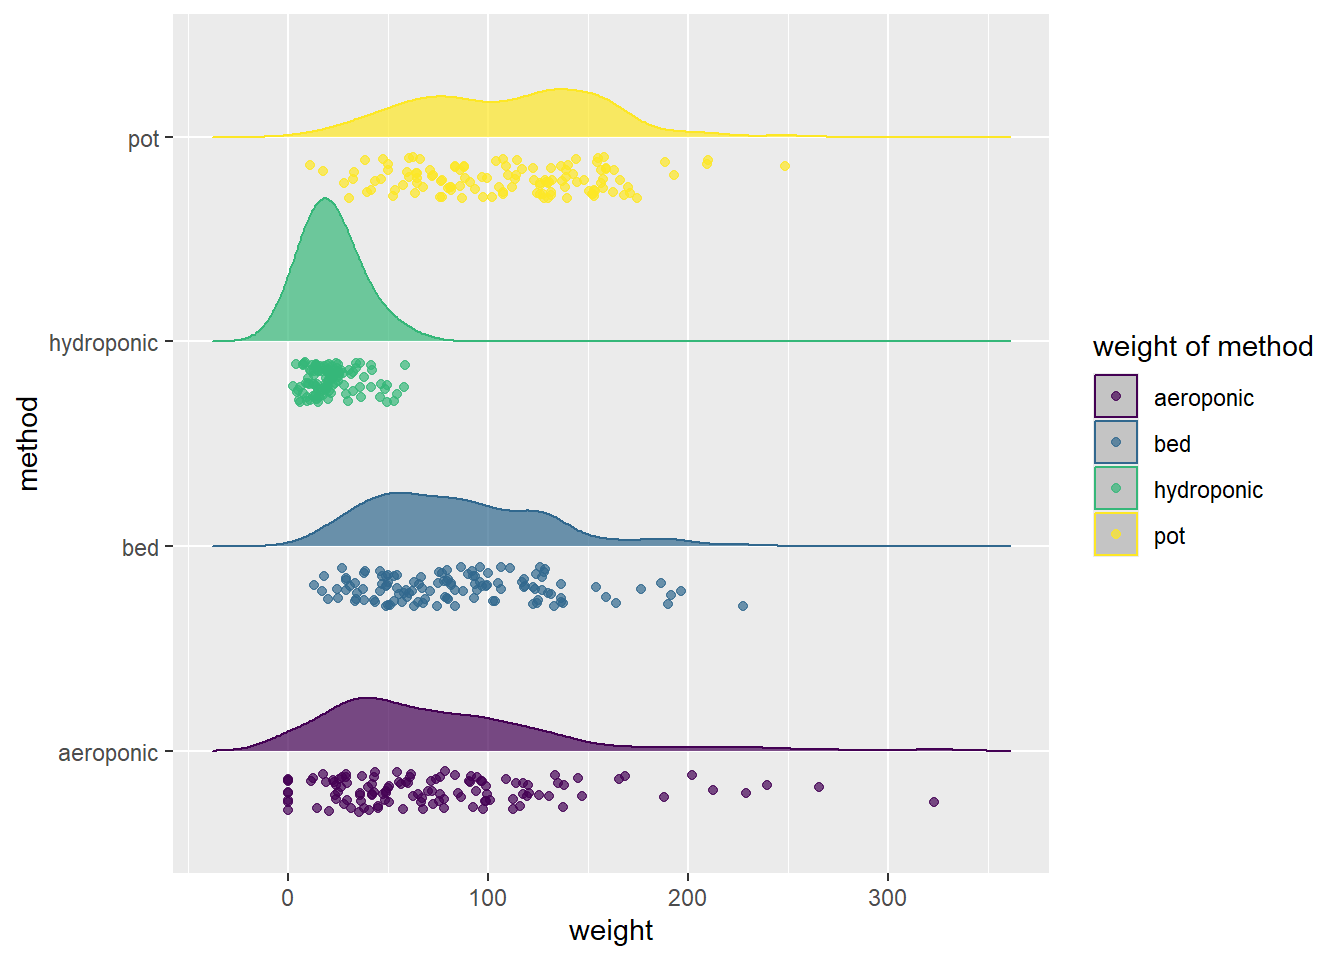
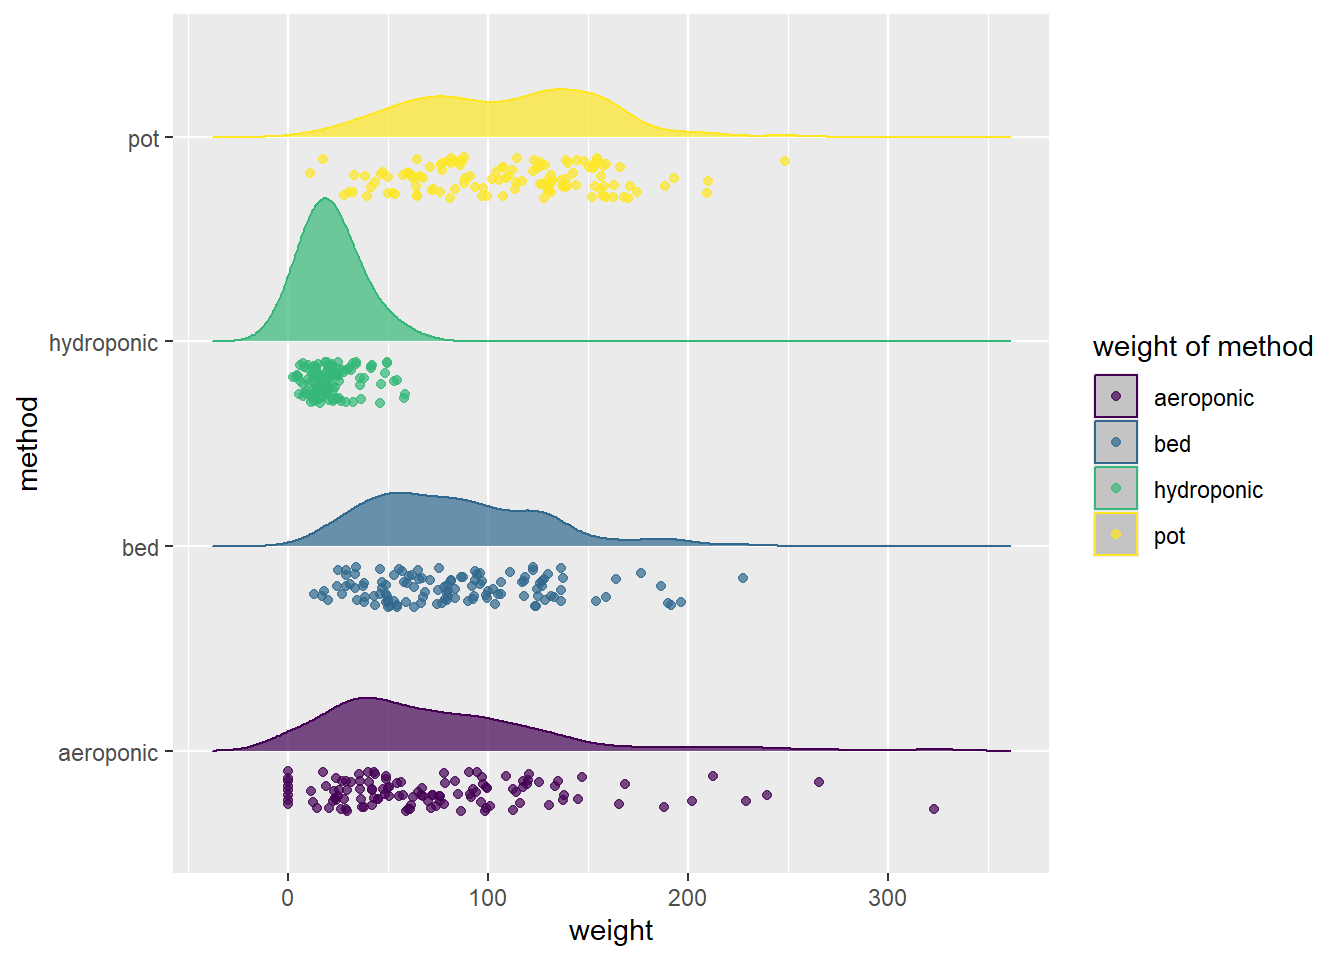
Publish site to docs/

diff --git a/docs/Themen/03/03_Graph.html b/docs/Themen/03/03_Graph.html
@@ -187,9 +187,9 @@ pre > code.sourceCode > span > a:first-child::before { text-decoration: underlin
   <li><a href="#transformation-der-achsenabstände" id="toc-transformation-der-achsenabstände" class="nav-link" data-scroll-target="#transformation-der-achsenabstände">Transformation der Achsenabstände</a></li>
   <li><a href="#theme" id="toc-theme" class="nav-link" data-scroll-target="#theme">Theme</a>
   <ul class="collapse">
-  <li><a href="#white-background---weißer-hintergrund" id="toc-white-background---weißer-hintergrund" class="nav-link" data-scroll-target="#white-background---weißer-hintergrund">white background - weißer Hintergrund</a></li>
-  <li><a href="#classic" id="toc-classic" class="nav-link" data-scroll-target="#classic">classic</a></li>
-  <li><a href="#pubr" id="toc-pubr" class="nav-link" data-scroll-target="#pubr">pubr</a></li>
+  <li><a href="#theme_bw" id="toc-theme_bw" class="nav-link" data-scroll-target="#theme_bw">theme_bw</a></li>
+  <li><a href="#theme_classic" id="toc-theme_classic" class="nav-link" data-scroll-target="#theme_classic">theme_classic</a></li>
+  <li><a href="#theme_pubr" id="toc-theme_pubr" class="nav-link" data-scroll-target="#theme_pubr">theme_pubr</a></li>
   </ul></li>
   <li><a href="#farbwahl-für-fill-argument" id="toc-farbwahl-für-fill-argument" class="nav-link" data-scroll-target="#farbwahl-für-fill-argument">Farbwahl für fill-Argument</a>
   <ul class="collapse">
@@ -209,8 +209,8 @@ pre > code.sourceCode > span > a:first-child::before { text-decoration: underlin
   <li><a href="#mosaikplot-mit-libraryvcd" id="toc-mosaikplot-mit-libraryvcd" class="nav-link" data-scroll-target="#mosaikplot-mit-libraryvcd">Mosaikplot mit <code>library(vcd)</code></a></li>
   <li><a href="#layout" id="toc-layout" class="nav-link" data-scroll-target="#layout">Layout</a>
   <ul class="collapse">
-  <li><a href="#vier-plots-in-einer-graphik" id="toc-vier-plots-in-einer-graphik" class="nav-link" data-scroll-target="#vier-plots-in-einer-graphik">Vier Plots in einer Graphik</a></li>
-  <li><a href="#vier-plots-in-einer-graphik-mit-einer-legende-mit-libraryggpubr" id="toc-vier-plots-in-einer-graphik-mit-einer-legende-mit-libraryggpubr" class="nav-link" data-scroll-target="#vier-plots-in-einer-graphik-mit-einer-legende-mit-libraryggpubr">Vier Plots in einer Graphik mit einer Legende mit <code>library(ggpubr)</code></a></li>
+  <li><a href="#vier-plots-in-einer-grafik" id="toc-vier-plots-in-einer-grafik" class="nav-link" data-scroll-target="#vier-plots-in-einer-grafik">Vier Plots in einer Grafik</a></li>
+  <li><a href="#vier-plots-in-einer-grafik-mit-einer-legende-mit-libraryggpubr" id="toc-vier-plots-in-einer-grafik-mit-einer-legende-mit-libraryggpubr" class="nav-link" data-scroll-target="#vier-plots-in-einer-grafik-mit-einer-legende-mit-libraryggpubr">Vier Plots in einer Grafik mit einer Legende mit <code>library(ggpubr)</code></a></li>
   <li><a href="#beschriftung-innerhalb-facet_grid-und-facet_wrap" id="toc-beschriftung-innerhalb-facet_grid-und-facet_wrap" class="nav-link" data-scroll-target="#beschriftung-innerhalb-facet_grid-und-facet_wrap">Beschriftung innerhalb <code>facet_grid()</code> und <code>facet_wrap()</code></a>
   <ul class="collapse">
   <li><a href="#labeller-label_both" id="toc-labeller-label_both" class="nav-link" data-scroll-target="#labeller-label_both">labeller = label_both</a></li>
@@ -244,7 +244,7 @@ pre > code.sourceCode > span > a:first-child::before { text-decoration: underlin
 
 </header>
 
-<p>Bevor Daten statistisch analysiert werden, sollten sie grafisch dargestellt werden, um mögliche Fehler, Ausreißer oder Muster zu erkennen. Darüber hinaus ist die grafische Darstellung der Daten für die Präsentation und Interpretation statistischer Modelle unerlässlich.</p>
+<p>Bevor Daten statistisch analysiert werden, sollten sie grafisch dargestellt werden, um mögliche Fehler, Ausreißer oder Muster zu erkennen. Darüber hinaus ist die grafische Darstellung der Daten für die Präsentation und Interpretation statistischer Modelle unerlässlich. Wir nutzen hierfür den Datensatz <a href="https://github.com/DoreenGabriel/Kurs/blob/main/Themen/03/potato.xlsx" target="_blank">potato.xlsx</a>, wie schon in der vorherigen Kapiteln.</p>
 <div class="cell">
 <div class="sourceCode cell-code" id="cb1"><pre class="sourceCode r code-with-copy"><code class="sourceCode r"><span id="cb1-1"><a href="#cb1-1" aria-hidden="true" tabindex="-1"></a><span class="fu">library</span>(openxlsx)</span>
 <span id="cb1-2"><a href="#cb1-2" aria-hidden="true" tabindex="-1"></a><span class="fu">library</span>(dplyr)</span>
@@ -271,8 +271,8 @@ pre > code.sourceCode > span > a:first-child::before { text-decoration: underlin
 <section id="ggplot" class="level1">
 <h1>ggplot</h1>
 <p>Die folgenden Abbildungen werden mit der <code>library(ggplot2)</code> erstellt. Einen Schummelzettel zur <code>library(ggplot2)</code> findet ihr unter:<br>
-<a href="https://raw.githubusercontent.com/rstudio/cheatsheets/main/translations/german/data-visualization_de.pdf" target="_blank">https://raw.githubusercontent.com/rstudio/cheatsheets/main/translations/german/data-visualization_de.pdf</a></p>
-<p>Zunächst müssen wir die <code>library(ggplot2)</code> laden.</p>
+<a href="https://raw.githubusercontent.com/rstudio/cheatsheets/main/translations/german/data-visualization_de.pdf" target="_blank">https://raw.githubusercontent.com/rstudio/cheatsheets/main/translations/german/data-visualization_de.pdf</a> Und ein ganzes Buch mit Erklärungen gibt es unter (https://ggplot2-book.org/)<span target="_blank">https://ggplot2-book.org/</span></p>
+<p>Zunächst laden wir die <code>library(ggplot2)</code> ein.</p>
 <div class="cell">
 <div class="sourceCode cell-code" id="cb3"><pre class="sourceCode r code-with-copy"><code class="sourceCode r"><span id="cb3-1"><a href="#cb3-1" aria-hidden="true" tabindex="-1"></a><span class="fu">library</span>(ggplot2)</span></code><button title="Copy to Clipboard" class="code-copy-button"><i class="bi"></i></button></pre></div>
 </div>
@@ -705,10 +705,13 @@ pre > code.sourceCode > span > a:first-child::before { text-decoration: underlin
 <div class="sourceCode cell-code" id="cb53"><pre class="sourceCode r code-with-copy"><code class="sourceCode r"><span id="cb53-1"><a href="#cb53-1" aria-hidden="true" tabindex="-1"></a><span class="fu">ggplot</span>(<span class="at">data=</span>pot, <span class="fu">aes</span>(<span class="at">x=</span>weight, <span class="at">y=</span>tubers, <span class="at">color=</span>variety)) <span class="sc">+</span></span>
 <span id="cb53-2"><a href="#cb53-2" aria-hidden="true" tabindex="-1"></a>  <span class="fu">geom_point</span>()<span class="sc">+</span></span>
 <span id="cb53-3"><a href="#cb53-3" aria-hidden="true" tabindex="-1"></a>  <span class="fu">geom_smooth</span>(<span class="at">method=</span>lm)<span class="sc">+</span></span>
-<span id="cb53-4"><a href="#cb53-4" aria-hidden="true" tabindex="-1"></a>  <span class="fu">labs</span>(<span class="at">x=</span><span class="st">"Gewicht in g"</span>, <span class="at">y=</span><span class="st">"Anzahl Kartoffelknollen"</span>)<span class="sc">+</span></span>
-<span id="cb53-5"><a href="#cb53-5" aria-hidden="true" tabindex="-1"></a>  <span class="fu">coord_cartesian</span>(<span class="at">ylim=</span><span class="fu">c</span>(<span class="dv">0</span>,<span class="dv">15</span>), <span class="at">xlim =</span> <span class="fu">c</span>(<span class="dv">0</span>,<span class="dv">350</span>))<span class="sc">+</span></span>
-<span id="cb53-6"><a href="#cb53-6" aria-hidden="true" tabindex="-1"></a>  <span class="fu">facet_grid</span>(method<span class="sc">~</span>variety)<span class="sc">+</span></span>
-<span id="cb53-7"><a href="#cb53-7" aria-hidden="true" tabindex="-1"></a>  <span class="fu">theme</span>(<span class="at">legend.position=</span><span class="st">"bottom"</span>)</span></code><button title="Copy to Clipboard" class="code-copy-button"><i class="bi"></i></button></pre></div>
+<span id="cb53-4"><a href="#cb53-4" aria-hidden="true" tabindex="-1"></a>  <span class="fu">scale_color_manual</span>(<span class="at">values=</span><span class="fu">c</span>(<span class="fu">rgb</span>(<span class="dv">190</span>,<span class="dv">210</span>,<span class="dv">35</span>, <span class="at">max =</span> <span class="dv">255</span>), </span>
+<span id="cb53-5"><a href="#cb53-5" aria-hidden="true" tabindex="-1"></a>                              <span class="fu">rgb</span>(<span class="dv">35</span>,<span class="dv">80</span>,<span class="dv">150</span>, <span class="at">max =</span> <span class="dv">255</span>), </span>
+<span id="cb53-6"><a href="#cb53-6" aria-hidden="true" tabindex="-1"></a>                              <span class="fu">rgb</span>(<span class="dv">240</span>,<span class="dv">215</span>,<span class="dv">35</span>, <span class="at">max =</span> <span class="dv">255</span>)))<span class="sc">+</span></span>
+<span id="cb53-7"><a href="#cb53-7" aria-hidden="true" tabindex="-1"></a>  <span class="fu">labs</span>(<span class="at">x=</span><span class="st">"Gewicht in g"</span>, <span class="at">y=</span><span class="st">"Anzahl Kartoffelknollen"</span>)<span class="sc">+</span></span>
+<span id="cb53-8"><a href="#cb53-8" aria-hidden="true" tabindex="-1"></a>  <span class="fu">coord_cartesian</span>(<span class="at">ylim=</span><span class="fu">c</span>(<span class="dv">0</span>,<span class="dv">15</span>), <span class="at">xlim =</span> <span class="fu">c</span>(<span class="dv">0</span>,<span class="dv">350</span>))<span class="sc">+</span></span>
+<span id="cb53-9"><a href="#cb53-9" aria-hidden="true" tabindex="-1"></a>  <span class="fu">facet_grid</span>(method<span class="sc">~</span>variety)<span class="sc">+</span></span>
+<span id="cb53-10"><a href="#cb53-10" aria-hidden="true" tabindex="-1"></a>  <span class="fu">theme</span>(<span class="at">legend.position=</span><span class="st">"bottom"</span>)</span></code><button title="Copy to Clipboard" class="code-copy-button"><i class="bi"></i></button></pre></div>
 <div class="cell-output cell-output-stderr">
 <pre><code>`geom_smooth()` using formula = 'y ~ x'</code></pre>
 </div>
@@ -817,7 +820,7 @@ pre > code.sourceCode > span > a:first-child::before { text-decoration: underlin
 </section>
 <section id="stichprobenumfang-bzw.-anzahl-wiederholungen-je-gruppe" class="level3">
 <h3 class="anchored" data-anchor-id="stichprobenumfang-bzw.-anzahl-wiederholungen-je-gruppe">Stichprobenumfang bzw. Anzahl Wiederholungen je Gruppe</h3>
-<p>https://stackoverflow.com/questions/42822273/adding-sample-size-to-a-box-plot-at-the-min-or-max-of-the-facet-in-ggplot</p>
+<p><a href="https://stackoverflow.com/questions/42822273/adding-sample-size-to-a-box-plot-at-the-min-or-max-of-the-facet-in-ggplot" target="_blank">https://stackoverflow.com/questions/42822273/adding-sample-size-to-a-box-plot-at-the-min-or-max-of-the-facet-in-ggplot</a></p>
 <div class="cell">
 <div class="sourceCode cell-code" id="cb60"><pre class="sourceCode r code-with-copy"><code class="sourceCode r"><span id="cb60-1"><a href="#cb60-1" aria-hidden="true" tabindex="-1"></a>give.n<span class="ot">&lt;-</span><span class="cf">function</span>(x)</span>
 <span id="cb60-2"><a href="#cb60-2" aria-hidden="true" tabindex="-1"></a>  {</span>
@@ -875,6 +878,7 @@ pre > code.sourceCode > span > a:first-child::before { text-decoration: underlin
 <p><img src="03_Graph_files/figure-html/unnamed-chunk-45-1.png" class="img-fluid" width="672"></p>
 </div>
 </div>
+<p>oder wir drehen die X-Achsenbeschriftungslevels um 45 Grad.</p>
 <div class="cell">
 <div class="sourceCode cell-code" id="cb65"><pre class="sourceCode r code-with-copy"><code class="sourceCode r"><span id="cb65-1"><a href="#cb65-1" aria-hidden="true" tabindex="-1"></a><span class="fu">ggplot</span>(<span class="at">data=</span>pot, <span class="fu">aes</span>(<span class="at">x=</span>method, <span class="at">y=</span>weight)) <span class="sc">+</span></span>
 <span id="cb65-2"><a href="#cb65-2" aria-hidden="true" tabindex="-1"></a>  <span class="fu">stat_boxplot</span>(<span class="at">geom =</span><span class="st">"errorbar"</span>, <span class="at">width =</span> <span class="fl">0.5</span>)<span class="sc">+</span></span>
@@ -904,8 +908,9 @@ Mit dem Argument <code>position=position_jitterdodge()</code> können wir das ä
 <div class="sourceCode cell-code" id="cb67"><pre class="sourceCode r code-with-copy"><code class="sourceCode r"><span id="cb67-1"><a href="#cb67-1" aria-hidden="true" tabindex="-1"></a><span class="fu">ggplot</span>(<span class="at">data=</span>pot, <span class="fu">aes</span>(<span class="at">x=</span>method, <span class="at">y=</span>weight, <span class="at">colour=</span>variety)) <span class="sc">+</span></span>
 <span id="cb67-2"><a href="#cb67-2" aria-hidden="true" tabindex="-1"></a>  <span class="fu">stat_boxplot</span>(<span class="at">geom =</span><span class="st">"errorbar"</span>, <span class="at">width =</span> <span class="fl">0.5</span>, <span class="at">position =</span> <span class="fu">position_dodge</span>(<span class="at">width=</span><span class="fl">0.75</span>))<span class="sc">+</span></span>
 <span id="cb67-3"><a href="#cb67-3" aria-hidden="true" tabindex="-1"></a>  <span class="fu">geom_boxplot</span>(<span class="at">outlier.shape=</span><span class="cn">NA</span>) <span class="sc">+</span></span>
-<span id="cb67-4"><a href="#cb67-4" aria-hidden="true" tabindex="-1"></a>  <span class="fu">geom_jitter</span>(<span class="at">position=</span><span class="fu">position_jitterdodge</span>(<span class="at">jitter.width =</span> <span class="fl">0.1</span>, <span class="at">jitter.height =</span> <span class="dv">0</span>, <span class="at">dodge.width=</span><span class="fl">0.75</span>), </span>
-<span id="cb67-5"><a href="#cb67-5" aria-hidden="true" tabindex="-1"></a>              <span class="at">shape=</span><span class="dv">1</span>, <span class="at">size=</span><span class="dv">1</span>)</span></code><button title="Copy to Clipboard" class="code-copy-button"><i class="bi"></i></button></pre></div>
+<span id="cb67-4"><a href="#cb67-4" aria-hidden="true" tabindex="-1"></a>  <span class="fu">geom_jitter</span>(<span class="at">position=</span><span class="fu">position_jitterdodge</span>(<span class="at">jitter.width =</span> <span class="fl">0.1</span>, <span class="at">jitter.height =</span> <span class="dv">0</span>, </span>
+<span id="cb67-5"><a href="#cb67-5" aria-hidden="true" tabindex="-1"></a>                                            <span class="at">dodge.width=</span><span class="fl">0.75</span>), </span>
+<span id="cb67-6"><a href="#cb67-6" aria-hidden="true" tabindex="-1"></a>              <span class="at">shape=</span><span class="dv">1</span>, <span class="at">size=</span><span class="dv">1</span>)</span></code><button title="Copy to Clipboard" class="code-copy-button"><i class="bi"></i></button></pre></div>
 <div class="cell-output-display">
 <p><img src="03_Graph_files/figure-html/unnamed-chunk-48-1.png" class="img-fluid" width="672"></p>
 </div>
@@ -1014,8 +1019,9 @@ Removed 8 rows containing non-finite outside the scale range
 </div>
 </div>
 <p>Es gibt eine Reihe von abgestimmten <code>themes()</code>:</p>
-<section id="white-background---weißer-hintergrund" class="level3">
-<h3 class="anchored" data-anchor-id="white-background---weißer-hintergrund">white background - weißer Hintergrund</h3>
+<section id="theme_bw" class="level3">
+<h3 class="anchored" data-anchor-id="theme_bw">theme_bw</h3>
+<p>white background - weißer Hintergrund und schwarze Gitterlinien</p>
 <div class="cell">
 <div class="sourceCode cell-code" id="cb77"><pre class="sourceCode r code-with-copy"><code class="sourceCode r"><span id="cb77-1"><a href="#cb77-1" aria-hidden="true" tabindex="-1"></a><span class="fu">ggplot</span>(<span class="at">data=</span>pot, <span class="fu">aes</span>(<span class="at">x=</span>method, <span class="at">y=</span>weight, <span class="at">fill=</span>variety)) <span class="sc">+</span></span>
 <span id="cb77-2"><a href="#cb77-2" aria-hidden="true" tabindex="-1"></a>  <span class="fu">stat_boxplot</span>(<span class="at">geom =</span><span class="st">"errorbar"</span>, <span class="at">width =</span> <span class="fl">0.5</span>, <span class="at">position =</span> <span class="fu">position_dodge</span>(<span class="at">width=</span><span class="fl">0.75</span>))<span class="sc">+</span></span>
@@ -1026,8 +1032,8 @@ Removed 8 rows containing non-finite outside the scale range
 </div>
 </div>
 </section>
-<section id="classic" class="level3">
-<h3 class="anchored" data-anchor-id="classic">classic</h3>
+<section id="theme_classic" class="level3">
+<h3 class="anchored" data-anchor-id="theme_classic">theme_classic</h3>
 <div class="cell">
 <div class="sourceCode cell-code" id="cb78"><pre class="sourceCode r code-with-copy"><code class="sourceCode r"><span id="cb78-1"><a href="#cb78-1" aria-hidden="true" tabindex="-1"></a><span class="fu">ggplot</span>(<span class="at">data=</span>pot, <span class="fu">aes</span>(<span class="at">x=</span>method, <span class="at">y=</span>weight, <span class="at">fill=</span>variety)) <span class="sc">+</span></span>
 <span id="cb78-2"><a href="#cb78-2" aria-hidden="true" tabindex="-1"></a>  <span class="fu">stat_boxplot</span>(<span class="at">geom =</span><span class="st">"errorbar"</span>, <span class="at">width =</span> <span class="fl">0.5</span>, <span class="at">position =</span> <span class="fu">position_dodge</span>(<span class="at">width=</span><span class="fl">0.75</span>))<span class="sc">+</span></span>
@@ -1038,8 +1044,8 @@ Removed 8 rows containing non-finite outside the scale range
 </div>
 </div>
 </section>
-<section id="pubr" class="level3">
-<h3 class="anchored" data-anchor-id="pubr">pubr</h3>
+<section id="theme_pubr" class="level3">
+<h3 class="anchored" data-anchor-id="theme_pubr">theme_pubr</h3>
 <div class="cell">
 <div class="sourceCode cell-code" id="cb79"><pre class="sourceCode r code-with-copy"><code class="sourceCode r"><span id="cb79-1"><a href="#cb79-1" aria-hidden="true" tabindex="-1"></a><span class="fu">library</span>(ggpubr)</span>
 <span id="cb79-2"><a href="#cb79-2" aria-hidden="true" tabindex="-1"></a><span class="fu">ggplot</span>(<span class="at">data=</span>pot, <span class="fu">aes</span>(<span class="at">x=</span>method, <span class="at">y=</span>weight, <span class="at">fill=</span>variety)) <span class="sc">+</span></span>
@@ -1077,6 +1083,7 @@ Removed 8 rows containing non-finite outside the scale range
 <p><img src="03_Graph_files/figure-html/unnamed-chunk-60-1.png" class="img-fluid" width="672"></p>
 </div>
 </div>
+<p>weitere Beispiele <a href="https://ggplot2.tidyverse.org/reference/scale_brewer.html" target="_blank">https://ggplot2.tidyverse.org/reference/scale_brewer.html</a></p>
 </section>
 </section>
 <section id="abstand-zwischen-den-boxen" class="level2">
@@ -1281,9 +1288,9 @@ Removed 8 rows containing non-finite outside the scale range
 </section>
 <section id="layout" class="level1">
 <h1>Layout</h1>
-<section id="vier-plots-in-einer-graphik" class="level2">
-<h2 class="anchored" data-anchor-id="vier-plots-in-einer-graphik">Vier Plots in einer Graphik</h2>
-<p>Um mehrere Plots in einer Graphik abzubilden, müssen die Plots zunächst einzeln in Objekten gespeichert werden (z.B. <code>p1</code> bis <code>p4</code>), um dann mit der Funktion <code>grid.arrange(p1,p2,p3,p4, ncol=2)</code> der <code>library(gridExtra)</code> geplottet zu werden. Mit dem Argument <code>ncol</code> kann die Anzahl der Spalten bestimmt werden.</p>
+<section id="vier-plots-in-einer-grafik" class="level2">
+<h2 class="anchored" data-anchor-id="vier-plots-in-einer-grafik">Vier Plots in einer Grafik</h2>
+<p>Um mehrere Plots in einer Grafik abzubilden, müssen die Plots zunächst einzeln in Objekten gespeichert werden (z.B. <code>p1</code> bis <code>p4</code>), um dann mit der Funktion <code>grid.arrange(p1,p2,p3,p4, ncol=2)</code> der <code>library(gridExtra)</code> geplottet zu werden. Mit dem Argument <code>ncol</code> kann die Anzahl der Spalten bestimmt werden.</p>
 <div class="cell">
 <div class="sourceCode cell-code" id="cb103"><pre class="sourceCode r code-with-copy"><code class="sourceCode r"><span id="cb103-1"><a href="#cb103-1" aria-hidden="true" tabindex="-1"></a><span class="fu">library</span>(gridExtra)</span></code><button title="Copy to Clipboard" class="code-copy-button"><i class="bi"></i></button></pre></div>
 <div class="cell-output cell-output-stderr">
@@ -1345,8 +1352,8 @@ i Please use the `legend.position.inside` argument of `theme()` instead.</code><
 </div>
 <p>Schon besser.</p>
 </section>
-<section id="vier-plots-in-einer-graphik-mit-einer-legende-mit-libraryggpubr" class="level2">
-<h2 class="anchored" data-anchor-id="vier-plots-in-einer-graphik-mit-einer-legende-mit-libraryggpubr">Vier Plots in einer Graphik mit einer Legende mit <code>library(ggpubr)</code></h2>
+<section id="vier-plots-in-einer-grafik-mit-einer-legende-mit-libraryggpubr" class="level2">
+<h2 class="anchored" data-anchor-id="vier-plots-in-einer-grafik-mit-einer-legende-mit-libraryggpubr">Vier Plots in einer Grafik mit einer Legende mit <code>library(ggpubr)</code></h2>
 <p>Eine weitere Möglichkeit bietet die <code>library(ggpubr)</code> mit der Funktion <code>ggarrange()</code>. Hier können auch die einzelnen Plots z.B. mit A, B, C, D beschriftet werden.</p>
 <div class="cell">
 <div class="sourceCode cell-code" id="cb110"><pre class="sourceCode r code-with-copy"><code class="sourceCode r"><span id="cb110-1"><a href="#cb110-1" aria-hidden="true" tabindex="-1"></a><span class="fu">library</span>(ggpubr)</span>

diff --git a/docs/Themen/01/01_Allgemeines.html b/docs/Themen/01/01_Allgemeines.html
@@ -352,7 +352,7 @@ James, Witten, Hastie &amp; Tibshirani 2023: An Introduction to Statistical Lear
 </ul>
 <section id="daten-direkt-aus-excel-einlesen" class="level3">
 <h3 class="anchored" data-anchor-id="daten-direkt-aus-excel-einlesen">Daten direkt aus Excel einlesen</h3>
-<p>Diesen Datensatz können wir direkt mit der <code>library(openxlsx)</code> aus Excel einlesen.</p>
+<p>Diesen Datensatz <a href="https://github.com/DoreenGabriel/Kurs/blob/main/Themen/01/potato.xlsx" target="_blank">potato.xlsx</a> können wir direkt mit der <code>library(openxlsx)</code> aus Excel einlesen.</p>
 <p><img src="potato.png" class="img-fluid"></p>
 <div class="cell">
 <div class="sourceCode cell-code" id="cb26"><pre class="sourceCode r code-with-copy"><code class="sourceCode r"><span id="cb26-1"><a href="#cb26-1" aria-hidden="true" tabindex="-1"></a><span class="fu">library</span>(openxlsx)</span>
@@ -389,7 +389,7 @@ James, Witten, Hastie &amp; Tibshirani 2023: An Introduction to Statistical Lear
 </ul>
 <div class="cell">
 <div class="sourceCode cell-code" id="cb30"><pre class="sourceCode r code-with-copy"><code class="sourceCode r"><span id="cb30-1"><a href="#cb30-1" aria-hidden="true" tabindex="-1"></a><span class="fu">setwd</span>(<span class="st">"D:/R/Kartoffelversuch"</span>) </span>
-<span id="cb30-2"><a href="#cb30-2" aria-hidden="true" tabindex="-1"></a>md<span class="ot">&lt;-</span><span class="fu">read.xlsx</span>(<span class="st">"potato.csv"</span>.xlsx<span class="st">", sheet=1)</span></span></code><button title="Copy to Clipboard" class="code-copy-button"><i class="bi"></i></button></pre></div>
+<span id="cb30-2"><a href="#cb30-2" aria-hidden="true" tabindex="-1"></a>md<span class="ot">&lt;-</span><span class="fu">read.xlsx</span>(<span class="st">"potato.xlsx"</span>, <span class="at">sheet=</span><span class="dv">1</span>)</span></code><button title="Copy to Clipboard" class="code-copy-button"><i class="bi"></i></button></pre></div>
 </div>
 <p>Über das Argument <code>startRow</code> können Zeilen übersprungen werden. Wenn bspw. die erste Zeile die ausführliche Beschreibung der Spalteninformation enthält und erst in der zweiten Zeile die kurzen prägnanten Variablennamen stehen, dann kann mit <code>startRow=2</code> der Datensatz ab Zeile 2 eingelesen werden.</p>
 <p><img src="potato_Zeile_2.png" class="img-fluid"></p>

diff --git a/docs/Themen/02/02_DeskriptiveStats.html b/docs/Themen/02/02_DeskriptiveStats.html
@@ -204,7 +204,7 @@ pre > code.sourceCode > span > a:first-child::before { text-decoration: underlin
 <h1>Beispieldatensatz potato.xlsx</h1>
 <p>Diese Daten sind die leicht modifizierten und erweiterten <code>greenhouse</code>-Daten aus dem R-Paket <code>agricolae</code>.</p>
 <p>In einem Versuch wurden verschiedene Kartoffelsorten (<code>variety</code>) in verschiedenen Anbaumethoden (<code>method</code>) kultiviert und die Anzahl Knollen (<code>tubers</code>), deren Gewicht (<code>weight</code>), der Krankheitsbefall (<code>infection</code> 1=ja, 0=nein) und die mittlere Luftfeuchte (<code>humidity</code>) ermittelt.</p>
-<p>Zunächst lesen wir den Datensatz <code>potato.xlsx</code> mit der Funktion <code>read.xlsx</code> aus der <code>library(openxlsx)</code> ein und benennen den <code>data.frame</code> mit <code>pot</code> und machen uns mit ihm vertraut.</p>
+<p>Zunächst lesen wir den Datensatz <a href="https://github.com/DoreenGabriel/Kurs/blob/main/Themen/02/potato.xlsx" target="_blank">potato.xlsx</a> mit der Funktion <code>read.xlsx</code> aus der <code>library(openxlsx)</code> ein und benennen den <code>data.frame</code> mit <code>pot</code> und machen uns mit ihm vertraut.</p>
 <div class="cell">
 <div class="sourceCode cell-code" id="cb1"><pre class="sourceCode r code-with-copy"><code class="sourceCode r"><span id="cb1-1"><a href="#cb1-1" aria-hidden="true" tabindex="-1"></a><span class="fu">library</span>(openxlsx)</span>
 <span id="cb1-2"><a href="#cb1-2" aria-hidden="true" tabindex="-1"></a>pot<span class="ot">&lt;-</span><span class="fu">read.xlsx</span>(<span class="st">"potato.xlsx"</span>, <span class="at">sheet=</span><span class="dv">1</span>)</span>
